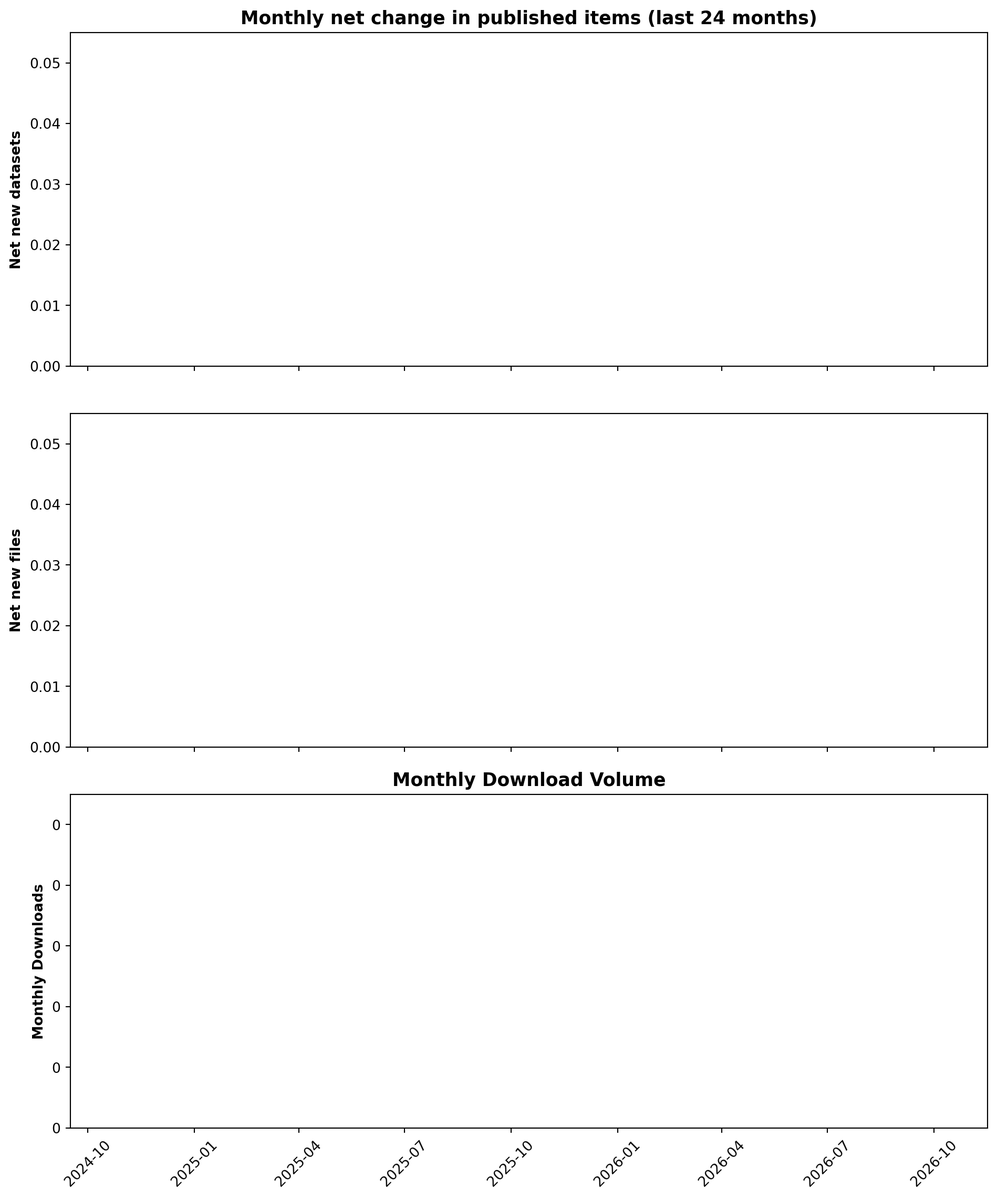
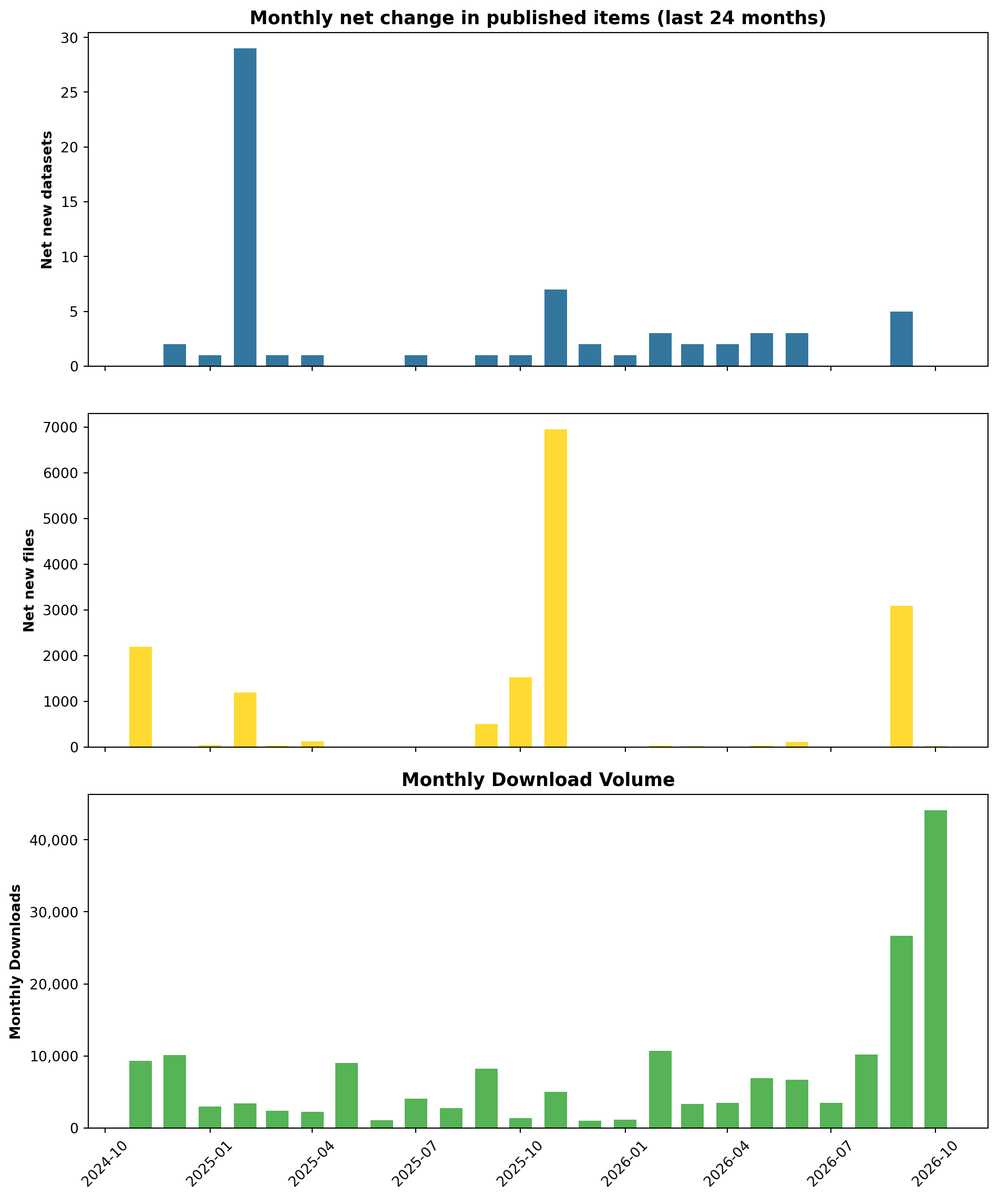
deploy: b433f8507f3ff13c4a1a21e9484f6ad41243d4a0

diff --git a/instruction.html b/instruction.html
@@ -389,7 +389,7 @@ ul.task-list li input[type="checkbox"] {
 
 
 <p><em>Evidence page: registered seats and workshop attendance from attendee-level and validated aggregate sources, with their definitions and limits.</em></p>
-<p><em>Last rendered: October 07, 2026</em></p>
+<p><em>Last rendered: October 08, 2026</em></p>
 <div class="callout callout-style-default callout-note callout-titled">
 <div class="callout-header d-flex align-content-center">
 <div class="callout-icon-container">
@@ -741,16 +741,16 @@ ul.task-list li input[type="checkbox"] {
 </div>
 <div class="cell">
 <div class="cell-output-display">
-<div class="datatables html-widget html-fill-item" id="htmlwidget-1c2fb1a3612834f3f1c3" style="width:100%;height:auto;"></div>
-<script type="application/json" data-for="htmlwidget-1c2fb1a3612834f3f1c3">{"x":{"filter":"none","vertical":false,"caption":"<caption>UCLA departments. Search or sort to find a specific unit. 96 departments with fewer than 5 are combined into one row, or omitted if that row is also under 5.<\/caption>","data":[["Geography","Information Studies","Library","Multiple Departments","Social Science","Environment and Sustainability","Psychology","Urban Planning","Atmospheric and Oceanic Sciences","Chemistry and Biochemistry","Biostatistics","Mathematics","Political Science","Epidemiology","Education","Institute of the Environment and Sustainability","Statistics","UCLA Health","Management","Economics","Sociology","IT Services","Public Policy","Anthropology","Computer Science","Civil and Environmental Engineering","Health","Asian Languages and Cultures","Institute of Transportation Studies","English","History","Law","Linguistics","Architecture and Urban Design","Art History","Library Special Collections","Community Health Sciences","Ecology and Evolutionary Biology","East Asian Studies","Teaching and Learning Center","International Institute","Semel Institute for Neuroscience and Human Behavior","Pediatrics","Engineering Schoolwide Programs","Life Sciences","Humanities Technology","Pritzker Center for Strengthening Children and Families","Faculty Practice Group","Public Health","Health Policy and Management","Other units (each fewer than 5)"],[64,60,58,29,27,26,26,23,17,16,16,15,14,14,14,13,12,12,11,11,11,10,10,9,9,9,9,8,8,8,8,8,7,7,7,7,7,6,6,6,6,6,5,5,5,5,5,5,5,5,177]],"container":"<table class=\"display\">\n  <thead>\n    <tr>\n      <th>Department<\/th>\n      <th>Attendance<\/th>\n    <\/tr>\n  <\/thead>\n<\/table>","options":{"pageLength":10,"dom":"ftp","columnDefs":[{"className":"dt-right","targets":1},{"name":"Department","targets":0},{"name":"Attendance","targets":1}],"order":[],"autoWidth":false,"orderClasses":false}},"evals":[],"jsHooks":[]}</script>
+<div class="datatables html-widget html-fill-item" id="htmlwidget-4f428a3da0a5f399b748" style="width:100%;height:auto;"></div>
+<script type="application/json" data-for="htmlwidget-4f428a3da0a5f399b748">{"x":{"filter":"none","vertical":false,"caption":"<caption>UCLA departments. Search or sort to find a specific unit. 96 departments with fewer than 5 are combined into one row, or omitted if that row is also under 5.<\/caption>","data":[["Geography","Information Studies","Library","Multiple Departments","Social Science","Environment and Sustainability","Psychology","Urban Planning","Atmospheric and Oceanic Sciences","Chemistry and Biochemistry","Biostatistics","Mathematics","Political Science","Epidemiology","Education","Institute of the Environment and Sustainability","Statistics","UCLA Health","Management","Economics","Sociology","IT Services","Public Policy","Anthropology","Computer Science","Civil and Environmental Engineering","Health","Asian Languages and Cultures","Institute of Transportation Studies","English","History","Law","Linguistics","Architecture and Urban Design","Art History","Library Special Collections","Community Health Sciences","Ecology and Evolutionary Biology","East Asian Studies","Teaching and Learning Center","International Institute","Semel Institute for Neuroscience and Human Behavior","Pediatrics","Engineering Schoolwide Programs","Life Sciences","Humanities Technology","Pritzker Center for Strengthening Children and Families","Faculty Practice Group","Public Health","Health Policy and Management","Other units (each fewer than 5)"],[64,60,58,29,27,26,26,23,17,16,16,15,14,14,14,13,12,12,11,11,11,10,10,9,9,9,9,8,8,8,8,8,7,7,7,7,7,6,6,6,6,6,5,5,5,5,5,5,5,5,177]],"container":"<table class=\"display\">\n  <thead>\n    <tr>\n      <th>Department<\/th>\n      <th>Attendance<\/th>\n    <\/tr>\n  <\/thead>\n<\/table>","options":{"pageLength":10,"dom":"ftp","columnDefs":[{"className":"dt-right","targets":1},{"name":"Department","targets":0},{"name":"Attendance","targets":1}],"order":[],"autoWidth":false,"orderClasses":false}},"evals":[],"jsHooks":[]}</script>
 </div>
 </div>
 </div>
 <div id="tabset-1-4" class="tab-pane" role="tabpanel" aria-labelledby="tabset-1-4-tab">
 <div class="cell">
 <div class="cell-output-display">
-<div class="datatables html-widget html-fill-item" id="htmlwidget-f69f94da4c9dd4ed8f37" style="width:100%;height:auto;"></div>
-<script type="application/json" data-for="htmlwidget-f69f94da4c9dd4ed8f37">{"x":{"filter":"none","vertical":false,"caption":"<caption>Validated UCLA attendance by broader organizational parent. 10 parents with fewer than 5 are combined into one row, or omitted if that row is also under 5.<\/caption>","data":[["UCLA College — Social Sciences","School of Education and Information Studies","UCLA Library","UCLA College — Physical Sciences","David Geffen School of Medicine","Luskin School of Public Affairs","UCLA College — Life Sciences","Fielding School of Public Health","UCLA College — Humanities","Institute of the Environment and Sustainability","Samueli School of Engineering","UCLA Health","Campus administration","Research and technology administration","UCLA International Institute","Anderson School of Management","School of Arts and Architecture","School of Law","Other units (each fewer than 5)"],["college_division","professional_school","library","college_division","professional_school","professional_school","college_division","professional_school","college_division","academic_institute","professional_school","health_system","administrative_group","administrative_group","academic_institute","professional_school","professional_school","professional_school",null],[177,76,69,67,57,53,52,52,49,39,36,21,16,14,13,11,10,8,18]],"container":"<table class=\"display\">\n  <thead>\n    <tr>\n      <th>Organizational parent<\/th>\n      <th>Parent type<\/th>\n      <th>Attendance<\/th>\n    <\/tr>\n  <\/thead>\n<\/table>","options":{"pageLength":15,"dom":"ftp","columnDefs":[{"className":"dt-right","targets":2},{"name":"Organizational parent","targets":0},{"name":"Parent type","targets":1},{"name":"Attendance","targets":2}],"order":[],"autoWidth":false,"orderClasses":false,"lengthMenu":[10,15,25,50,100]}},"evals":[],"jsHooks":[]}</script>
+<div class="datatables html-widget html-fill-item" id="htmlwidget-00e0c13773099b1f066a" style="width:100%;height:auto;"></div>
+<script type="application/json" data-for="htmlwidget-00e0c13773099b1f066a">{"x":{"filter":"none","vertical":false,"caption":"<caption>Validated UCLA attendance by broader organizational parent. 10 parents with fewer than 5 are combined into one row, or omitted if that row is also under 5.<\/caption>","data":[["UCLA College — Social Sciences","School of Education and Information Studies","UCLA Library","UCLA College — Physical Sciences","David Geffen School of Medicine","Luskin School of Public Affairs","UCLA College — Life Sciences","Fielding School of Public Health","UCLA College — Humanities","Institute of the Environment and Sustainability","Samueli School of Engineering","UCLA Health","Campus administration","Research and technology administration","UCLA International Institute","Anderson School of Management","School of Arts and Architecture","School of Law","Other units (each fewer than 5)"],["college_division","professional_school","library","college_division","professional_school","professional_school","college_division","professional_school","college_division","academic_institute","professional_school","health_system","administrative_group","administrative_group","academic_institute","professional_school","professional_school","professional_school",null],[177,76,69,67,57,53,52,52,49,39,36,21,16,14,13,11,10,8,18]],"container":"<table class=\"display\">\n  <thead>\n    <tr>\n      <th>Organizational parent<\/th>\n      <th>Parent type<\/th>\n      <th>Attendance<\/th>\n    <\/tr>\n  <\/thead>\n<\/table>","options":{"pageLength":15,"dom":"ftp","columnDefs":[{"className":"dt-right","targets":2},{"name":"Organizational parent","targets":0},{"name":"Parent type","targets":1},{"name":"Attendance","targets":2}],"order":[],"autoWidth":false,"orderClasses":false,"lengthMenu":[10,15,25,50,100]}},"evals":[],"jsHooks":[]}</script>
 </div>
 </div>
 </div>
@@ -766,8 +766,8 @@ ul.task-list li input[type="checkbox"] {
 </div>
 <div class="cell">
 <div class="cell-output-display">
-<div class="datatables html-widget html-fill-item" id="htmlwidget-7e9a1b5510881ea19dc6" style="width:100%;height:auto;"></div>
-<script type="application/json" data-for="htmlwidget-7e9a1b5510881ea19dc6">{"x":{"filter":"none","vertical":false,"caption":"<caption>Participant affiliations. 142 affiliations with fewer than 5 are combined into one row, or omitted if that row is also under 5.<\/caption>","data":[["Graduate Student","Staff","UnderGraduate Student","Faculty","Postdoc","Graduate","Librarian","Other","Professional Researcher","Alumni","Undergrad","UC Alumni","Student, gradaute","PostDoc","Alum","Undergraduate","Student","Non-UCB","Project Scientist","Physician / Clinician","Research staff","Visiting Scholar","Community Member","Graduate, Other","Freshman/Sophomore","Medical Resident","Other units (each fewer than 5)"],[3627,2791,1538,655,593,411,395,389,285,137,80,68,44,35,31,29,20,13,12,11,10,10,9,6,6,6,203]],"container":"<table class=\"display\">\n  <thead>\n    <tr>\n      <th>Affiliation<\/th>\n      <th>Attendance<\/th>\n    <\/tr>\n  <\/thead>\n<\/table>","options":{"pageLength":10,"dom":"ftp","columnDefs":[{"className":"dt-right","targets":1},{"name":"Affiliation","targets":0},{"name":"Attendance","targets":1}],"order":[],"autoWidth":false,"orderClasses":false}},"evals":[],"jsHooks":[]}</script>
+<div class="datatables html-widget html-fill-item" id="htmlwidget-979975d7a8c36360d5e9" style="width:100%;height:auto;"></div>
+<script type="application/json" data-for="htmlwidget-979975d7a8c36360d5e9">{"x":{"filter":"none","vertical":false,"caption":"<caption>Participant affiliations. 142 affiliations with fewer than 5 are combined into one row, or omitted if that row is also under 5.<\/caption>","data":[["Graduate Student","Staff","UnderGraduate Student","Faculty","Postdoc","Graduate","Librarian","Other","Professional Researcher","Alumni","Undergrad","UC Alumni","Student, gradaute","PostDoc","Alum","Undergraduate","Student","Non-UCB","Project Scientist","Physician / Clinician","Research staff","Visiting Scholar","Community Member","Graduate, Other","Freshman/Sophomore","Medical Resident","Other units (each fewer than 5)"],[3627,2791,1538,655,593,411,395,389,285,137,80,68,44,35,31,29,20,13,12,11,10,10,9,6,6,6,203]],"container":"<table class=\"display\">\n  <thead>\n    <tr>\n      <th>Affiliation<\/th>\n      <th>Attendance<\/th>\n    <\/tr>\n  <\/thead>\n<\/table>","options":{"pageLength":10,"dom":"ftp","columnDefs":[{"className":"dt-right","targets":1},{"name":"Affiliation","targets":0},{"name":"Attendance","targets":1}],"order":[],"autoWidth":false,"orderClasses":false}},"evals":[],"jsHooks":[]}</script>
 </div>
 </div>
 </div>
@@ -854,7 +854,7 @@ ul.task-list li input[type="checkbox"] {
 </div>
 </div>
 </div>
-<p><em>Last rendered: October 07, 2026</em></p>
+<p><em>Last rendered: October 08, 2026</em></p>
 
 
 </section>

diff --git a/infrastructure.html b/infrastructure.html
@@ -380,17 +380,17 @@ ul.task-list li input[type="checkbox"] {
 <em>Operations and provenance appendix: repository, storage, and cloud metrics. For the research these systems support, see <a href="investments.html">Research supported by shared investments</a>.</em>
 </p>
 <p>
-<em>Last rendered: October 07, 2026</em>
+<em>Last rendered: October 08, 2026</em>
 </p>
 <div class="kpi-row grid">
 <div class="g-col-6 g-col-md-4 kpi-card">
-<p><span class="kpi-label">Dataverse Datasets</span> <span class="kpi-value">—</span> <span class="kpi-note">Released datasets deposited directly at UCLA, as of 2026-10. The repository’s released total (about 1,390, Feb 2026) also counts about 1,014 legacy SSDA datasets that Library staff harvested and curate.</span></p>
+<p><span class="kpi-label">Dataverse Datasets</span> <span class="kpi-value">395</span> <span class="kpi-note">Released datasets deposited directly at UCLA, as of 2026-10. The repository’s released total (about 1,390, Feb 2026) also counts about 1,014 legacy SSDA datasets that Library staff harvested and curate.</span></p>
 </div>
 <div class="g-col-6 g-col-md-4 kpi-card">
-<p><span class="kpi-label">Dataverse Files</span> <span class="kpi-value">—</span> <span class="kpi-note">Files in datasets deposited directly at UCLA, as of 2026-10</span></p>
+<p><span class="kpi-label">Dataverse Files</span> <span class="kpi-value">28,644</span> <span class="kpi-note">Files in datasets deposited directly at UCLA, as of 2026-10</span></p>
 </div>
 <div class="g-col-6 g-col-md-4 kpi-card">
-<p><span class="kpi-label">Total Downloads</span> <span class="kpi-value">—</span> <span class="kpi-note">File-level download events, cumulative, as of 2026-10. The same measure stood at about 143,000 in Feb 2026.</span></p>
+<p><span class="kpi-label">Total Downloads</span> <span class="kpi-value">259,022</span> <span class="kpi-note">File-level download events, cumulative, as of 2026-10. The same measure stood at about 143,000 in Feb 2026.</span></p>
 </div>
 </div>
 <div class="tabset-margin-container"></div><div class="panel-tabset">
@@ -399,11 +399,11 @@ ul.task-list li input[type="checkbox"] {
 <div id="tabset-1-1" class="tab-pane active" role="tabpanel" aria-labelledby="tabset-1-1-tab">
 <section id="repository-growth-cumulative" class="level3">
 <h3 class="anchored" data-anchor-id="repository-growth-cumulative">Repository Growth (Cumulative)</h3>
-<div id="5e90592e" class="cell" data-execution_count="3">
+<div id="8efbc431" class="cell" data-execution_count="3">
 <div class="cell-output cell-output-display">
 <div>
 <figure class="figure">
-<p><img src="infrastructure_files/figure-html/cell-4-output-1.png" alt="Two stacked line charts showing cumulative growth of UCLA Dataverse over time. Top panel: total datasets published (blue). Bottom panel: total files published (gold)." width="951" height="660" class="figure-img"></p>
+<p><img src="infrastructure_files/figure-html/cell-4-output-1.png" alt="Two stacked line charts showing cumulative growth of UCLA Dataverse over time. Top panel: total datasets published (blue). Bottom panel: total files published (gold)." width="949" height="660" class="figure-img"></p>
 </figure>
 </div>
 </div>
@@ -412,11 +412,11 @@ ul.task-list li input[type="checkbox"] {
 <section id="monthly-activity" class="level3">
 <h3 class="anchored" data-anchor-id="monthly-activity">Monthly Activity</h3>
 <p>Bars show the positive month-to-month change in the cumulative counts. Removals or corrections are not visible here, so this is net growth, not a count of everything published.</p>
-<div id="531c9211" class="cell" data-execution_count="4">
+<div id="cbe92b71" class="cell" data-execution_count="4">
 <div class="cell-output cell-output-display">
 <div>
 <figure class="figure">
-<p><img src="infrastructure_files/figure-html/cell-5-output-1.png" alt="Three stacked bar charts showing monthly Dataverse activity over the last 24 months. Top: positive net change in published datasets per month (blue). Middle: positive net change in published files per month (gold). Bottom: monthly download volume (green)." width="949" height="1141" class="figure-img"></p>
+<p><img src="infrastructure_files/figure-html/cell-5-output-1.png" alt="Three stacked bar charts showing monthly Dataverse activity over the last 24 months. Top: positive net change in published datasets per month (blue). Middle: positive net change in published files per month (gold). Bottom: monthly download volume (green)." width="950" height="1141" class="figure-img"></p>
 </figure>
 </div>
 </div>
@@ -426,7 +426,7 @@ ul.task-list li input[type="checkbox"] {
 <div id="tabset-1-2" class="tab-pane" role="tabpanel" aria-labelledby="tabset-1-2-tab">
 <section id="current-bucket-sizes" class="level3">
 <h3 class="anchored" data-anchor-id="current-bucket-sizes">Current Bucket Sizes</h3>
-<div id="e786a309" class="cell" data-results="asis" data-execution_count="5">
+<div id="872f812e" class="cell" data-results="asis" data-execution_count="5">
 <div class="cell-output cell-output-display cell-output-markdown">
 <table class="caption-top table table-sm table-striped small">
 <colgroup>
@@ -509,9 +509,9 @@ ul.task-list li input[type="checkbox"] {
 </section>
 <section id="potree-storage" class="level3">
 <h3 class="anchored" data-anchor-id="potree-storage">Potree Storage</h3>
-<div id="72490c49" class="cell" data-results="asis" data-execution_count="6">
+<div id="155664c1" class="cell" data-results="asis" data-execution_count="6">
 <div class="cell-output cell-output-stdout">
-<pre><code>DSC hosts about 10.8 TiB of 3D point-cloud data for research visualization (Potree), as of 2026-10-05. Storage changed by +41.6 GiB (+0.4%) over the preceding 365 days.</code></pre>
+<pre><code>DSC hosts about 10.8 TiB of 3D point-cloud data for research visualization (Potree), as of 2026-10-06. Storage changed by +41.6 GiB (+0.4%) over the preceding 365 days.</code></pre>
 </div>
 </div>
 </section>
@@ -520,7 +520,7 @@ ul.task-list li input[type="checkbox"] {
 <section id="monthly-spend-share-by-application" class="level3">
 <h3 class="anchored" data-anchor-id="monthly-spend-share-by-application">Monthly Spend Share by Application</h3>
 <p>Operational view for DSC staff: each application’s share of monthly AWS charges, not absolute dollar amounts.</p>
-<div id="5d561797" class="cell" data-execution_count="7">
+<div id="00bb39b3" class="cell" data-execution_count="7">
 <div class="cell-output cell-output-display">
 <div>
 <figure class="figure">
@@ -553,7 +553,7 @@ ul.task-list li input[type="checkbox"] {
 <p><span class="kpi-label">Book-Chapter Links</span> <span class="kpi-value">160</span> <span class="kpi-note">Additional datasets linked to edited volumes (ISBN); citations not tracked</span></p>
 </div>
 </div>
-<div id="79640d34" class="cell" data-results="asis" data-execution_count="10">
+<div id="377953c8" class="cell" data-results="asis" data-execution_count="10">
 <div class="cell-output cell-output-display cell-output-markdown">
 <table class="caption-top table table-sm table-striped small">
 <colgroup>
@@ -734,9 +734,9 @@ ul.task-list li input[type="checkbox"] {
 </div>
 </div>
 <p><em>Last rendered:</em></p>
-<div id="86f06bb8" class="cell" data-execution_count="12">
+<div id="a76c7740" class="cell" data-execution_count="12">
 <div class="cell-output cell-output-stdout">
-<pre><code>October 07, 2026</code></pre>
+<pre><code>October 08, 2026</code></pre>
 </div>
 </div>
 

diff --git a/capability.html b/capability.html
@@ -459,7 +459,7 @@ ul.task-list li input[type="checkbox"] {
 <p><span class="lede">Two outside awards support this work: an IMLS grant to UCLA and a Sloan Foundation grant to the multi-campus UC OSPO Network.</span></p>
 <p>DSC’s open source program office (<abbr class="term" title="Open Source Program
 Office">OSPO</abbr>) work, licensing review, repository best practices, and release guidance, is part of the UC OSPO Network, funded by a <strong>$1.85M Sloan Foundation grant</strong> to the network as a whole (a multi-campus award, not a grant to DSC). It exists because the need is real: a 2025 scan of roughly 81,000 UC-affiliated code repositories found 77.5% carried no license at all, meaning most UC research code cannot legally be reused or built on.</p>
-<p>Alongside it, a <strong>$237,839 IMLS grant</strong> (Laura Bush 21st Century Librarian Program, RE-252335-OLS-22) funded an open science curriculum built by and for librarians: 15 peer-reviewed lessons (14 were proposed), each with a DOI, developed by two cohorts across 2023-2024. Tim Dennis served as Program Director, Todd Grappone as Co-PI, and Zhiyuan Yao, DSC’s GIS librarian at the time, as Program Coordinator. All lessons are built on The Carpentries Workbench and released under CC-BY 4.0; one, DMP 101, has already been formally adopted into the Library Carpentry curriculum, with the rest in active community piloting.</p>
+<p>Alongside it, a <strong>$237,839 IMLS grant</strong> (Laura Bush 21st Century Librarian Program, RE-252335-OLS-22) funded an open science curriculum built by and for librarians: 15 peer-reviewed lessons (14 were proposed), each with a DOI, developed by two cohorts across 2023-2024. Tim Dennis served as Program Director, Todd Grappone as Co-PI, and Zhiyuan Yao, DSC’s Spatial Data Science Librarian at the time, as Program Coordinator. All lessons are built on The Carpentries Workbench and released under CC-BY 4.0; one, DMP 101, has already been formally adopted into the Library Carpentry curriculum, with the rest in active community piloting.</p>
 <p>That curriculum work sits inside a larger, ongoing commitment: Dennis co-chairs the <strong>Library Carpentry Governance Group</strong>, which sets lesson-adoption and curriculum-quality standards for the global Library Carpentry program, not just UCLA’s. DSC staff maintain or co-maintain lessons taught worldwide, from core Carpentries material (Unix Shell, Tidy Data, R, Python, Computational Thinking) to newer additions in qualitative data methods, data management, Wikidata, data archiving, and AI, including a published lesson on using AI coding agents in research while preserving validation and reproducibility (<a href="https://tim-dennis.com/agentic-research-workflows">agentic-research-workflows</a>). Dennis is also a <a href="https://www.cos.io/communities/ambassadors">Center for Open Science Ambassador</a> (2016-present) and was teaching faculty for the Berkeley Initiative for Transparency in the Social Sciences’ <a href="https://www.bitss.org/education/rt2/">Research Transparency and Reproducibility Training</a>.</p>
 </section>
 <section id="sec-datasquad" class="level2">
@@ -475,7 +475,7 @@ Office">OSPO</abbr>) work, licensing review, repository best practices, and rele
 <div class="cell-output-display">
 <div class="quarto-figure quarto-figure-center">
 <figure class="figure">
-<p><img src="capability_files/figure-html/buildout-timeline-1.png" class="img-fluid figure-img" alt="Timeline of DSC, 2017 to 2026, in two tracks. What was built: 2017 First Library Carpentry workshop at UCLA; 2018 Archive becomes the Data Science Center; 2018 UCLA Dataverse launches; 2019 First UCLA-trained instructors teach their own workshop; 2020 DSC co-founds the UC Carpentries network; 2022 Redivis piloted (governed service from Jan 2023); 2022 pointcloud.ucla.edu 3D server built. Capacity and funding: 2018 Norman Powell's first gift to DSC; 2020 DataSquad funded by Norman Powell's gift (formal program from 2021); 2023 Library adds DataSquad funding; 2024 Scheduling system lapses; 2024 GIS librarian leaves; position not refilled until Oct 2026 posting; 2025 Student hiring under campus review, Jul-Oct 2025; 2026 Staff time at 4.0 FTE, down from 5.7 in 2022-23." width="1056"></p>
+<p><img src="capability_files/figure-html/buildout-timeline-1.png" class="img-fluid figure-img" alt="Timeline of DSC, 2017 to 2026, in two tracks. What was built: 2017 First Library Carpentry workshop at UCLA; 2018 Archive becomes the Data Science Center; 2018 UCLA Dataverse launches; 2019 First UCLA-trained instructors teach their own workshop; 2020 DSC co-founds the UC Carpentries network; 2022 Redivis piloted (governed service from Jan 2023); 2022 pointcloud.ucla.edu 3D server built. Capacity and funding: 2018 Norman Powell's first gift to DSC; 2020 DataSquad funded by Norman Powell's gift (formal program from 2021); 2023 Library adds DataSquad funding; 2024 Scheduling system lapses; 2024 Spatial Data Science Librarian leaves; new geospatial position posted Oct 2026; 2025 Student hiring under campus review, Jul-Oct 2025; 2026 Staff time at 4.0 FTE, down from 5.7 in 2022-23." width="1056"></p>
 <figcaption>Above the line: services and programs as they entered DSC’s portfolio. Below: funding and capacity changes. Positions within a year are approximate where only the year is known. The full dated list, with sources, follows the chart.</figcaption>
 </figure>
 </div>
@@ -506,7 +506,7 @@ All dated events, with sources
 <li><strong>2022</strong> (built): pointcloud.ucla.edu 3D server built. Source: Research enabled page; claim register #20.</li>
 <li><strong>2023</strong> (capacity): Library adds DataSquad funding. Source: DataSquad section on this page.</li>
 <li><strong>Jul 2024</strong> (capacity): Scheduling system lapses. Source: staffing and scheduling records (Research enabled page).</li>
-<li><strong>Aug 2024</strong> (capacity): GIS librarian leaves; position not refilled until Oct 2026 posting. Source: Shared investments page, GIS section.</li>
+<li><strong>Aug 2024</strong> (capacity): Spatial Data Science Librarian leaves; new geospatial position posted Oct 2026. Source: Shared investments page, GIS section.</li>
 <li><strong>Jul 2025</strong> (capacity): Student hiring under campus review, Jul-Oct 2025. Source: staffing and payroll records (Research enabled page).</li>
 <li><strong>2026</strong> (capacity): Staff time at 4.0 FTE, down from 5.7 in 2022-23. Source: staffing records; claim register #17.</li>
 </ul>
@@ -582,7 +582,7 @@ All dated events, with sources
 </div>
 </div>
 </div>
-<p><em>Last rendered: October 07, 2026</em></p>
+<p><em>Last rendered: October 08, 2026</em></p>
 
 
 </section>

diff --git a/consulting.html b/consulting.html
@@ -546,8 +546,8 @@ ul.task-list li input[type="checkbox"] {
 <div class="callout-body-container callout-body">
 <div class="cell">
 <div class="cell-output-display">
-<div class="datatables html-widget html-fill-item" id="htmlwidget-8afcbdd3d14c54ab3c64" style="width:100%;height:auto;"></div>
-<script type="application/json" data-for="htmlwidget-8afcbdd3d14c54ab3c64">{"x":{"filter":"none","vertical":false,"caption":"<caption>Consultation records file, Jan 2021 to Jun 2024. Named departments first; the combined group is listed last. 79 departments with fewer than 5 are combined into one row, or omitted if that row is also under 5.<\/caption>","data":[["Public Affairs","Ecology and Evolutionary Biology","History","Digital Humanities","Molecular, Cell, and Developmental Biology","Communications","Economics","Urban and Regional Planning","Political Science","Information Studies","Institute of the Environment and Sustainability","Health Policy and Management","Luskin School of Public Affairs","Chemistry","David Geffen School of Medicine","Public Health","Carceral Ecologies","Education","Environmental Science &amp; Engineering","Neuroscience","Psychology","Communication","Geography","Medicine","Public Policy","Asian Studies","Musicology","Society and Genetics","Spanish and Portuguese","Anderson School of Management","Gender Studies","Labor Studies","Statistics and Data Science","Other departments (each fewer than 5)"],[47,31,31,22,22,18,17,16,15,13,13,12,11,10,10,10,9,9,8,8,8,7,7,7,7,6,6,6,6,5,5,5,5,119]],"container":"<table class=\"display\">\n  <thead>\n    <tr>\n      <th>Department<\/th>\n      <th>Consultation records<\/th>\n    <\/tr>\n  <\/thead>\n<\/table>","options":{"pageLength":15,"dom":"ftp","columnDefs":[{"className":"dt-right","targets":1},{"name":"department","targets":0},{"name":"records","targets":1}],"order":[],"autoWidth":false,"orderClasses":false,"lengthMenu":[10,15,25,50,100]}},"evals":[],"jsHooks":[]}</script>
+<div class="datatables html-widget html-fill-item" id="htmlwidget-992cf4f0d38be8ad6d32" style="width:100%;height:auto;"></div>
+<script type="application/json" data-for="htmlwidget-992cf4f0d38be8ad6d32">{"x":{"filter":"none","vertical":false,"caption":"<caption>Consultation records file, Jan 2021 to Jun 2024. Named departments first; the combined group is listed last. 79 departments with fewer than 5 are combined into one row, or omitted if that row is also under 5.<\/caption>","data":[["Public Affairs","Ecology and Evolutionary Biology","History","Digital Humanities","Molecular, Cell, and Developmental Biology","Communications","Economics","Urban and Regional Planning","Political Science","Information Studies","Institute of the Environment and Sustainability","Health Policy and Management","Luskin School of Public Affairs","Chemistry","David Geffen School of Medicine","Public Health","Carceral Ecologies","Education","Environmental Science &amp; Engineering","Neuroscience","Psychology","Communication","Geography","Medicine","Public Policy","Asian Studies","Musicology","Society and Genetics","Spanish and Portuguese","Anderson School of Management","Gender Studies","Labor Studies","Statistics and Data Science","Other departments (each fewer than 5)"],[47,31,31,22,22,18,17,16,15,13,13,12,11,10,10,10,9,9,8,8,8,7,7,7,7,6,6,6,6,5,5,5,5,119]],"container":"<table class=\"display\">\n  <thead>\n    <tr>\n      <th>Department<\/th>\n      <th>Consultation records<\/th>\n    <\/tr>\n  <\/thead>\n<\/table>","options":{"pageLength":15,"dom":"ftp","columnDefs":[{"className":"dt-right","targets":1},{"name":"department","targets":0},{"name":"records","targets":1}],"order":[],"autoWidth":false,"orderClasses":false,"lengthMenu":[10,15,25,50,100]}},"evals":[],"jsHooks":[]}</script>
 </div>
 </div>
 </div>
@@ -721,7 +721,7 @@ ul.task-list li input[type="checkbox"] {
 </div>
 </div>
 </div>
-<p><em>Last rendered: October 07, 2026</em></p>
+<p><em>Last rendered: October 08, 2026</em></p>
 
 
 </section>

diff --git a/investments.html b/investments.html
@@ -449,7 +449,7 @@ ul.task-list li input[type="checkbox"] {
 <tr class="odd">
 <td>Repository datasets</td>
 <td>Operates UCLA Dataverse (campus sign-in, DOIs, preservation), where Library staff curate the legacy social science archive harvested into it</td>
-<td>UCLA Dataverse, run by DSC</td>
+<td>UCLA Dataverse for local deposits. Legacy SSDA data remain on Harvard Dataverse and are indexed through UCLA’s repository</td>
 <td><a href="#ucla-dataverse">UCLA Dataverse</a>; <a href="./infrastructure.html">infrastructure page</a></td>
 </tr>
 <tr class="even">
@@ -630,9 +630,9 @@ ul.task-list li input[type="checkbox"] {
 </section>
 <section id="sec-gis" class="level2">
 <h2 class="anchored" data-anchor-id="sec-gis">GIS and geospatial support</h2>
-<p><span class="lede">DSC’s GIS librarian left in August 2024 and the position was not refilled until the Library posted a new <a href="https://recruit.apo.ucla.edu/JPF11374">Mercator Geospatial Information and Maps Librarian</a> position on October 5, 2026. GIS requests continued.</span></p>
+<p><span class="lede">DSC’s Spatial Data Science Librarian left in August 2024. The Library posted a new <a href="https://recruit.apo.ucla.edu/JPF11374">Mercator Geospatial Information and Maps Librarian</a> position on October 5, 2026. How that position will cover the former role’s responsibilities remains a question. GIS requests continued.</span></p>
 <p>Geography was DSC’s single largest departmental workshop audience from 2020 to April 2024: 64 of the 1,575 UCLA-affiliated workshop attendance records from 2020 to April 2024, more than any other department over that period as a whole.</p>
-<p>Until they left for a faculty position in August 2024, DSC’s GIS librarian handled 72 to 82 booked consultations a year (2021 to 2023) across Urban Planning, Public Affairs, Environment and Sustainability, and Digital Humanities. They also co-taught a graduate Public Health course, ran systemwide UC GIS workshops that reached 617 participants in 2023 alone, and managed key research datasets, including the LARIAC aerial imagery. That demand hasn’t gone away. DSC still fields GIS requests, just without the specialist capacity to meet them.</p>
+<p>Until they left for a faculty position in August 2024, DSC’s Spatial Data Science Librarian handled 72 to 82 booked consultations a year (2021 to 2023) across Urban Planning, Public Affairs, Environment and Sustainability, and Digital Humanities. They also co-taught a graduate Public Health course, ran systemwide UC GIS workshops that reached 617 participants in 2023 alone, and managed key research datasets, including the LARIAC aerial imagery. That demand hasn’t gone away. DSC still fields GIS requests, just without the specialist capacity to meet them.</p>
 <p>For context, 81 of 187 Carnegie R1 institutions (43%) maintain a dedicated GIS librarian, rising to 81% among the top 25 R&amp;D-spending universities.</p>
 <p>The campus mapping platform is a separate gap, a matter of ownership rather than consultation demand. UCLA’s ArcGIS Online platform, used across Geography, Luskin, Fielding, Digital Humanities, Political Science, and Social Data Science, has over 7,100 accounts and more than 3,000 active users in the past year, per an OARC governance report from December 2025. As of that report, with no designated administrator, it was running at over 200% of its licensed storage.</p>
 </section>
@@ -726,7 +726,7 @@ ul.task-list li input[type="checkbox"] {
 </div>
 </div>
 </div>
-<p><em>Last rendered: October 07, 2026</em></p>
+<p><em>Last rendered: October 08, 2026</em></p>
 
 
 </section>

diff --git a/index.html b/index.html
@@ -369,6 +369,19 @@ ul.task-list li input[type="checkbox"] {
 </header>
 
 
+<div class="callout callout-style-default callout-note callout-titled">
+<div class="callout-header d-flex align-content-center">
+<div class="callout-icon-container">
+<i class="callout-icon"></i>
+</div>
+<div class="callout-title-container flex-fill">
+Note
+</div>
+</div>
+<div class="callout-body-container callout-body">
+<p>On August 24, 2026, the UCLA Library dissolved DSC as a unit and moved its staff into Research Services. This site documents the work and research infrastructure formerly coordinated through DSC. Prepared by Tim Dennis from DSC records and cited sources, it is not an official statement of the UCLA Library.</p>
+</div>
+</div>
 <p><strong>UCLA researchers have used DSC for data and technical work that crosses lab and department boundaries.</strong> At least 1,908 confirmed UCLA researchers used its instruction or consultation from 2017 to September 2026. DSC also made a 10 TB national voter file analysis-ready, provides governed access to restricted data, and operates UCLA’s research-data repository. Its staff time, counting DSC staff and time contributed by other Library units, fell from 5.7 FTE in 2022-23 to 4.0 in 2025-26. The question for the university is who will be accountable for these functions as DSC’s capacity changes: connecting them, setting standards, maintaining the infrastructure, and carrying the expertise forward.</p>
 <section id="what-the-evidence-establishes" class="level2">
 <h2 class="anchored" data-anchor-id="what-the-evidence-establishes">What the evidence establishes</h2>
@@ -423,7 +436,7 @@ ul.task-list li input[type="checkbox"] {
 <li><a href="https://github.com/ucla-data-science-center/dsc-stats-reports/blob/main/claim-register.md">Claim register</a>: approved wording, window, unit, and source for every headline figure</li>
 </ul>
 <div class="callout callout-style-default callout-note callout-titled" title="Cite this page">
-<div class="callout-header d-flex align-content-center collapsed" data-bs-toggle="collapse" data-bs-target=".callout-1-contents" aria-controls="callout-1" aria-expanded="false" aria-label="Toggle callout">
+<div class="callout-header d-flex align-content-center collapsed" data-bs-toggle="collapse" data-bs-target=".callout-2-contents" aria-controls="callout-2" aria-expanded="false" aria-label="Toggle callout">
 <div class="callout-icon-container">
 <i class="callout-icon"></i>
 </div>
@@ -432,13 +445,13 @@ ul.task-list li input[type="checkbox"] {
 </div>
 <div class="callout-btn-toggle d-inline-block border-0 py-1 ps-1 pe-0 float-end"><i class="callout-toggle"></i></div>
 </div>
-<div id="callout-1" class="callout-1-contents callout-collapse collapse">
+<div id="callout-2" class="callout-2-contents callout-collapse collapse">
 <div class="callout-body-container callout-body">
 <p>UCLA Library Data Science Center. (2026). <em>Research Enabled by DSC</em>. Retrieved from <a href="https://ucla-data-science-center.github.io/dsc-stats-reports/" class="uri">https://ucla-data-science-center.github.io/dsc-stats-reports/</a></p>
 </div>
 </div>
 </div>
-<p><em>Last rendered: October 07, 2026</em></p>
+<p><em>Last rendered: October 08, 2026</em></p>
 
 
 </section>

diff --git a/research.html b/research.html
@@ -406,7 +406,7 @@ ul.task-list li input[type="checkbox"] {
 </div>
 <p>Events marked on the chart:</p>
 <ul>
-<li><strong>A, August 2024:</strong> DSC’s GIS librarian left for a faculty position; the position was not refilled until the Library posted a new <a href="https://recruit.apo.ucla.edu/JPF11374">Mercator Geospatial Information and Maps Librarian</a> position on October 5, 2026. GIS requests continued.</li>
+<li><strong>A, August 2024:</strong> DSC’s Spatial Data Science Librarian left for a faculty position. The Library posted a new <a href="https://recruit.apo.ucla.edu/JPF11374">Mercator Geospatial Information and Maps Librarian</a> position on October 5, 2026. How that position will cover the former role’s responsibilities remains a question. GIS requests continued.</li>
 <li><strong>B, mid-2024:</strong> Calendly ended and no scheduling system replaced it, so most consultations went unrecorded.</li>
 <li><strong>C, May 2025:</strong> LibCal adopted; recording resumed.</li>
 <li><strong>D, July to October 2025:</strong> student hiring under campus review; one student remained on payroll.</li>
@@ -596,7 +596,7 @@ ul.task-list li input[type="checkbox"] {
 </div>
 </div>
 </div>
-<p><em>Last rendered: October 07, 2026</em></p>
+<p><em>Last rendered: October 08, 2026</em></p>
 
 
 </section>
